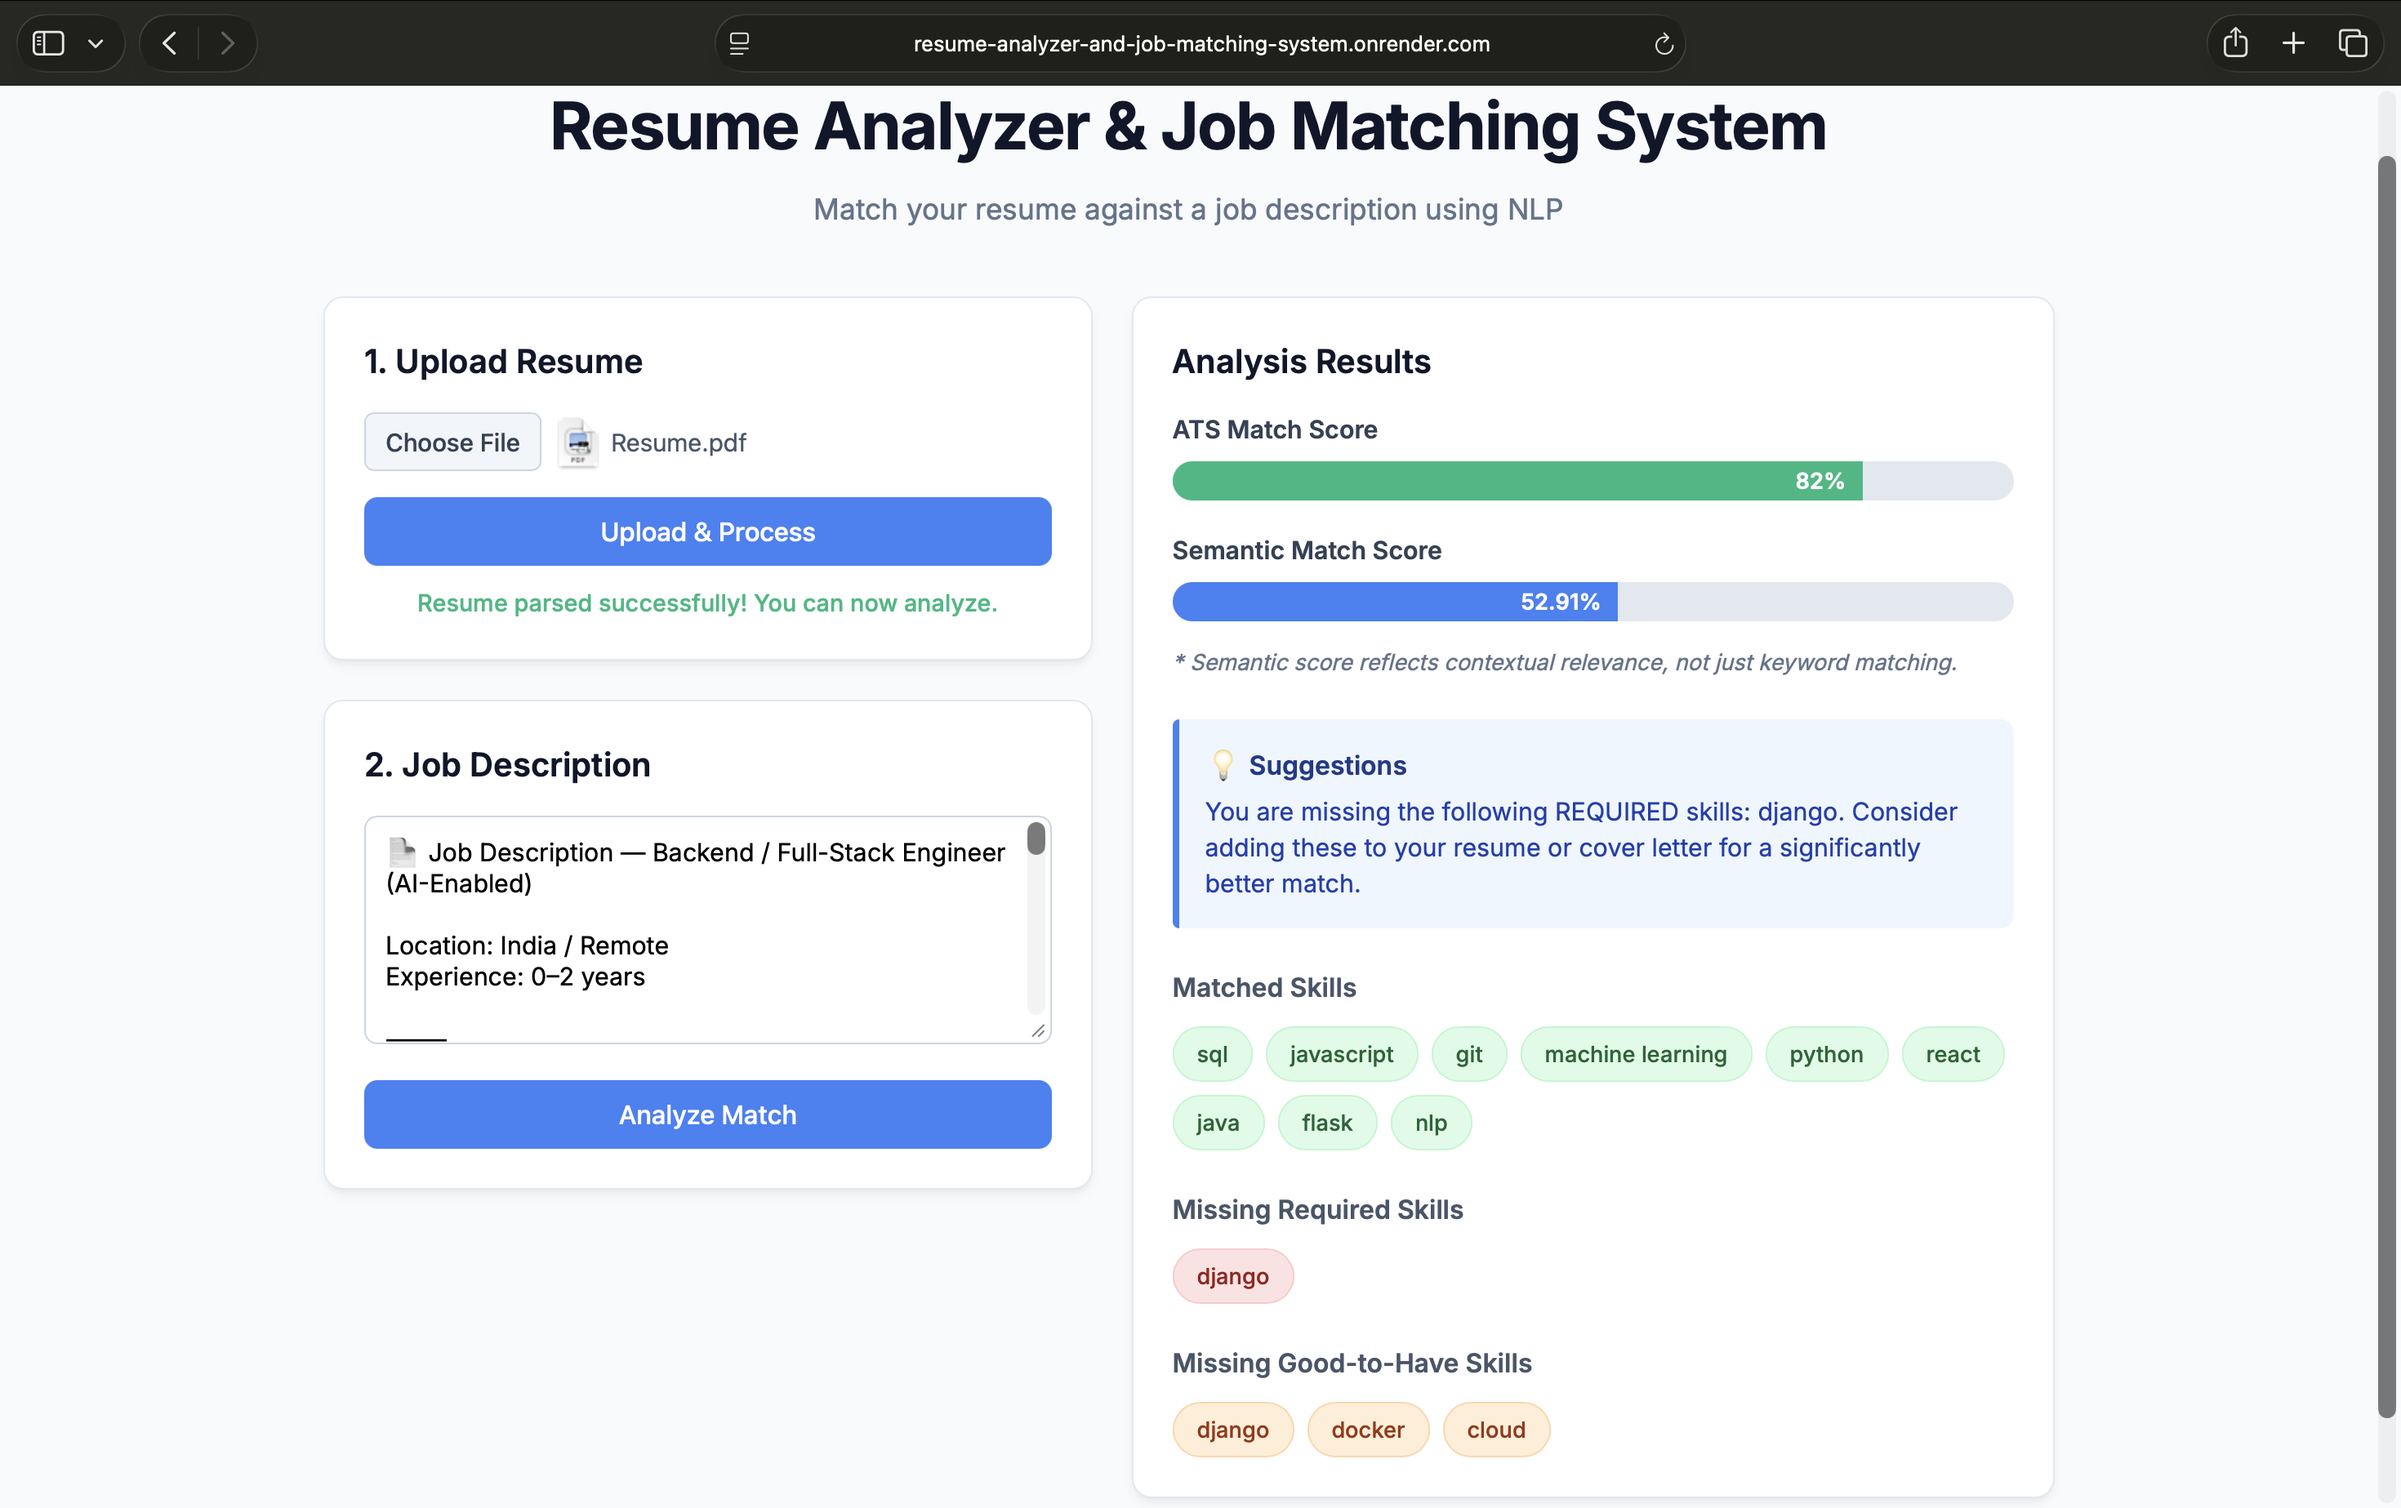
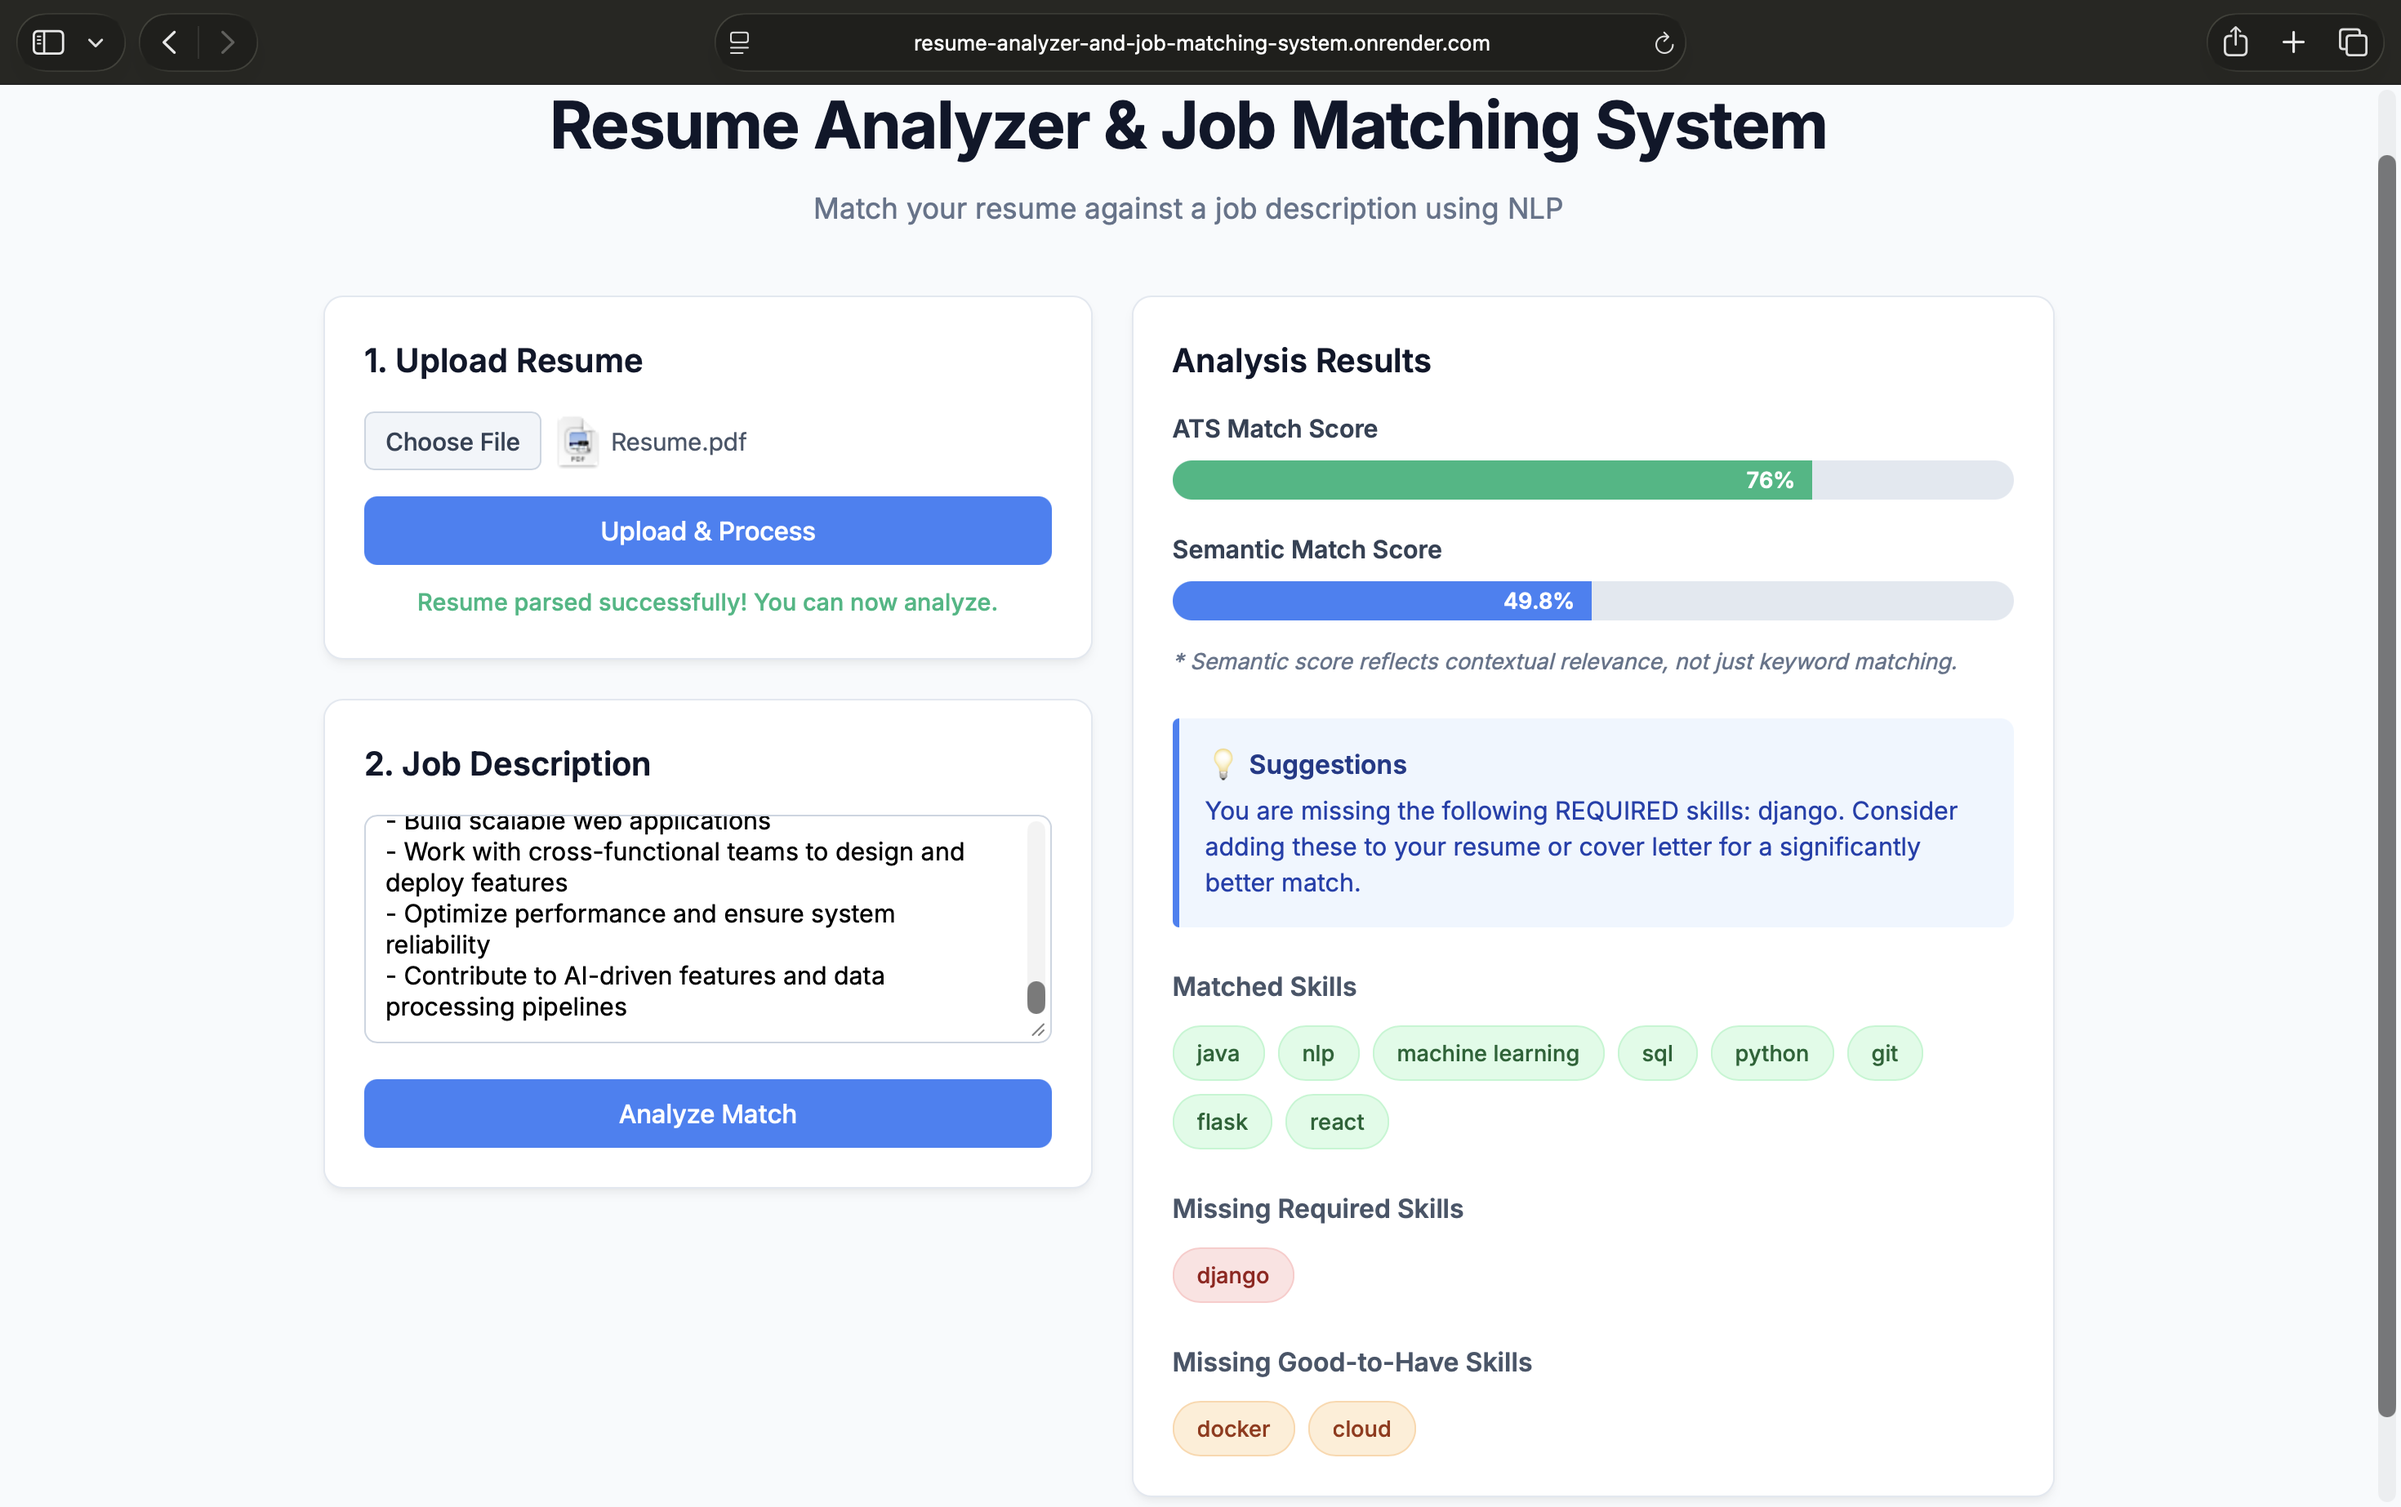
docs: update example output, add Docker to missing skills, and expand author bio in README

diff --git a/README.md b/README.md
@@ -52,12 +52,12 @@ A full-stack web application that evaluates how well a resume matches a job desc
 
 ## 📊 Example Output
 
-ATS Match Score: 73%
-Semantic Match Score: 50%
+ATS Match Score: 76%\
+Semantic Match Score: 49.8%
 
-Missing Skills:
-	•	Django
-	•	NLP
+Missing Skills:\
+	•	Django\
+	•	Docker
 
 > Semantic score reflects contextual relevance, not just keyword matching.
 
@@ -90,16 +90,16 @@ Open: http://127.0.0.1:5000
 
 ⸻
 
-🔮 Future Improvements
-	•	Resume improvement suggestions
-	•	Job scraping integration
-	•	Enhanced skill extraction using advanced NLP
+🔮 Future Improvements\
+	•	Resume improvement suggestions\
+	•	Job scraping integration\
+	•	Enhanced skill extraction using advanced NLP\
 	•	Performance optimization for large resumes
 
 ⸻
 
 👨💻 Author
 
-Aryan Mishra
-Computer Science Undergraduate
+Aryan Mishra\
+Computer Science Undergraduate\
 Interested in Backend Development, NLP, and Full-Stack Systems
